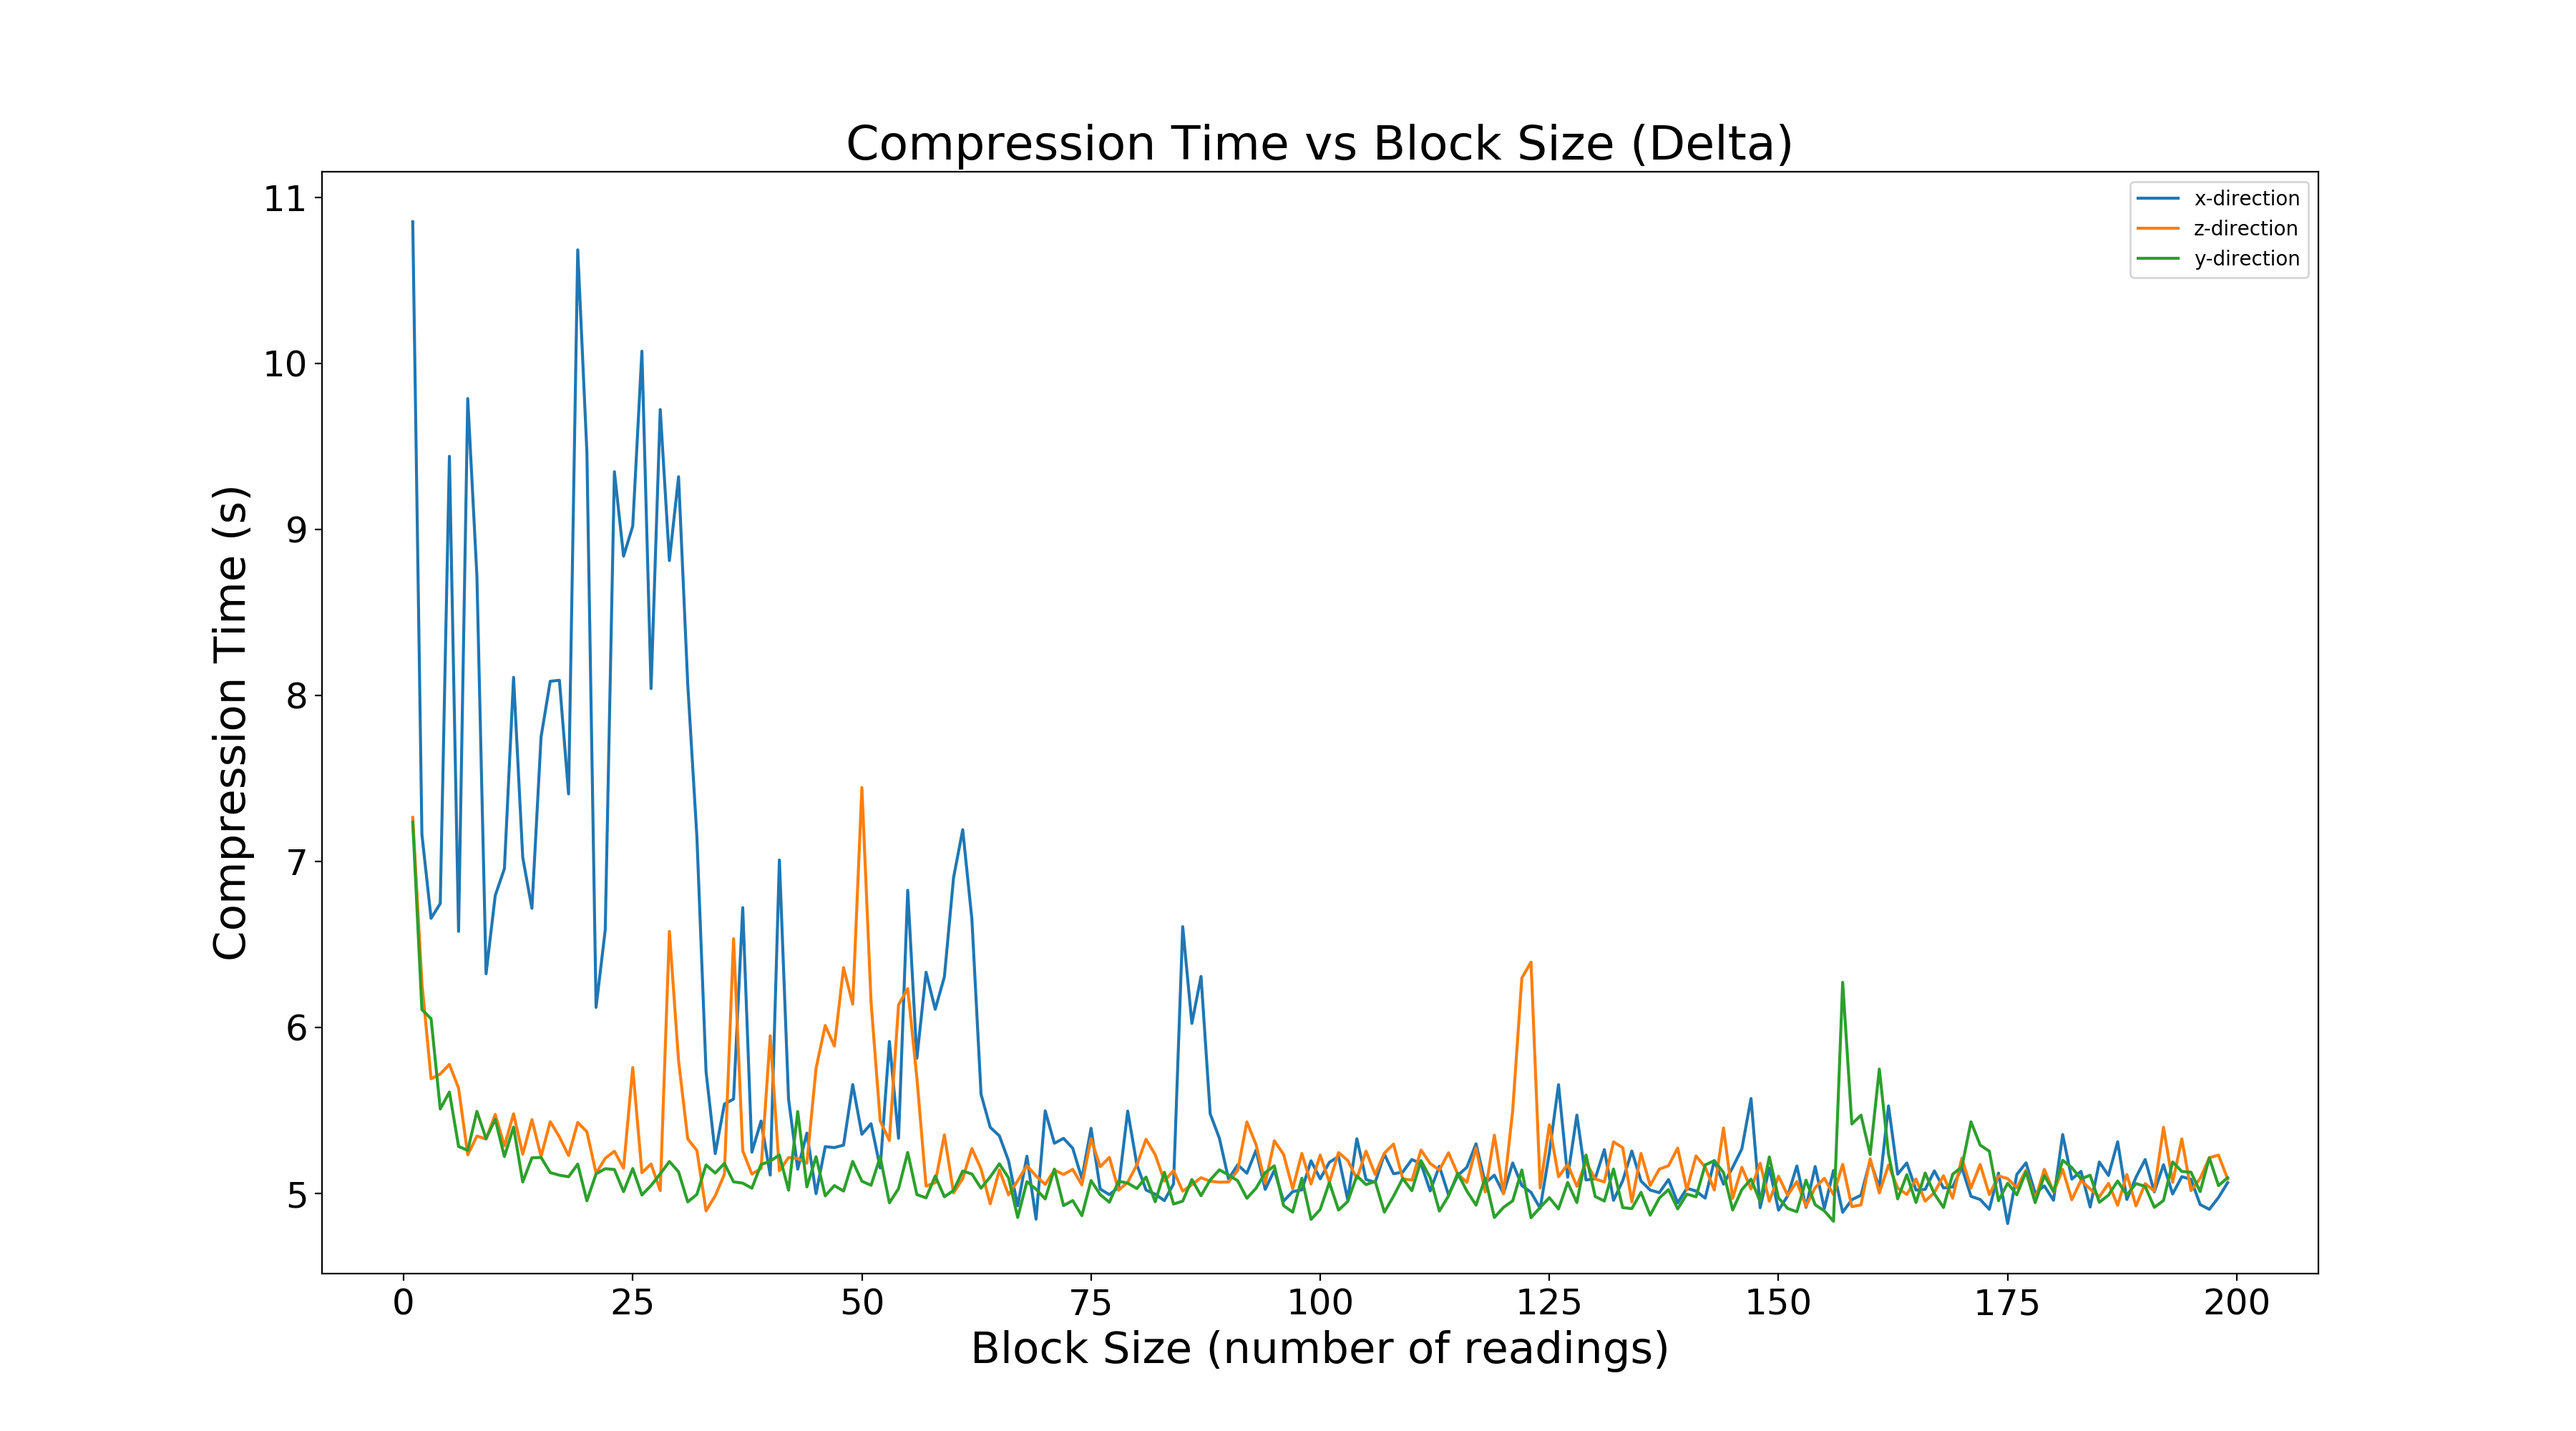
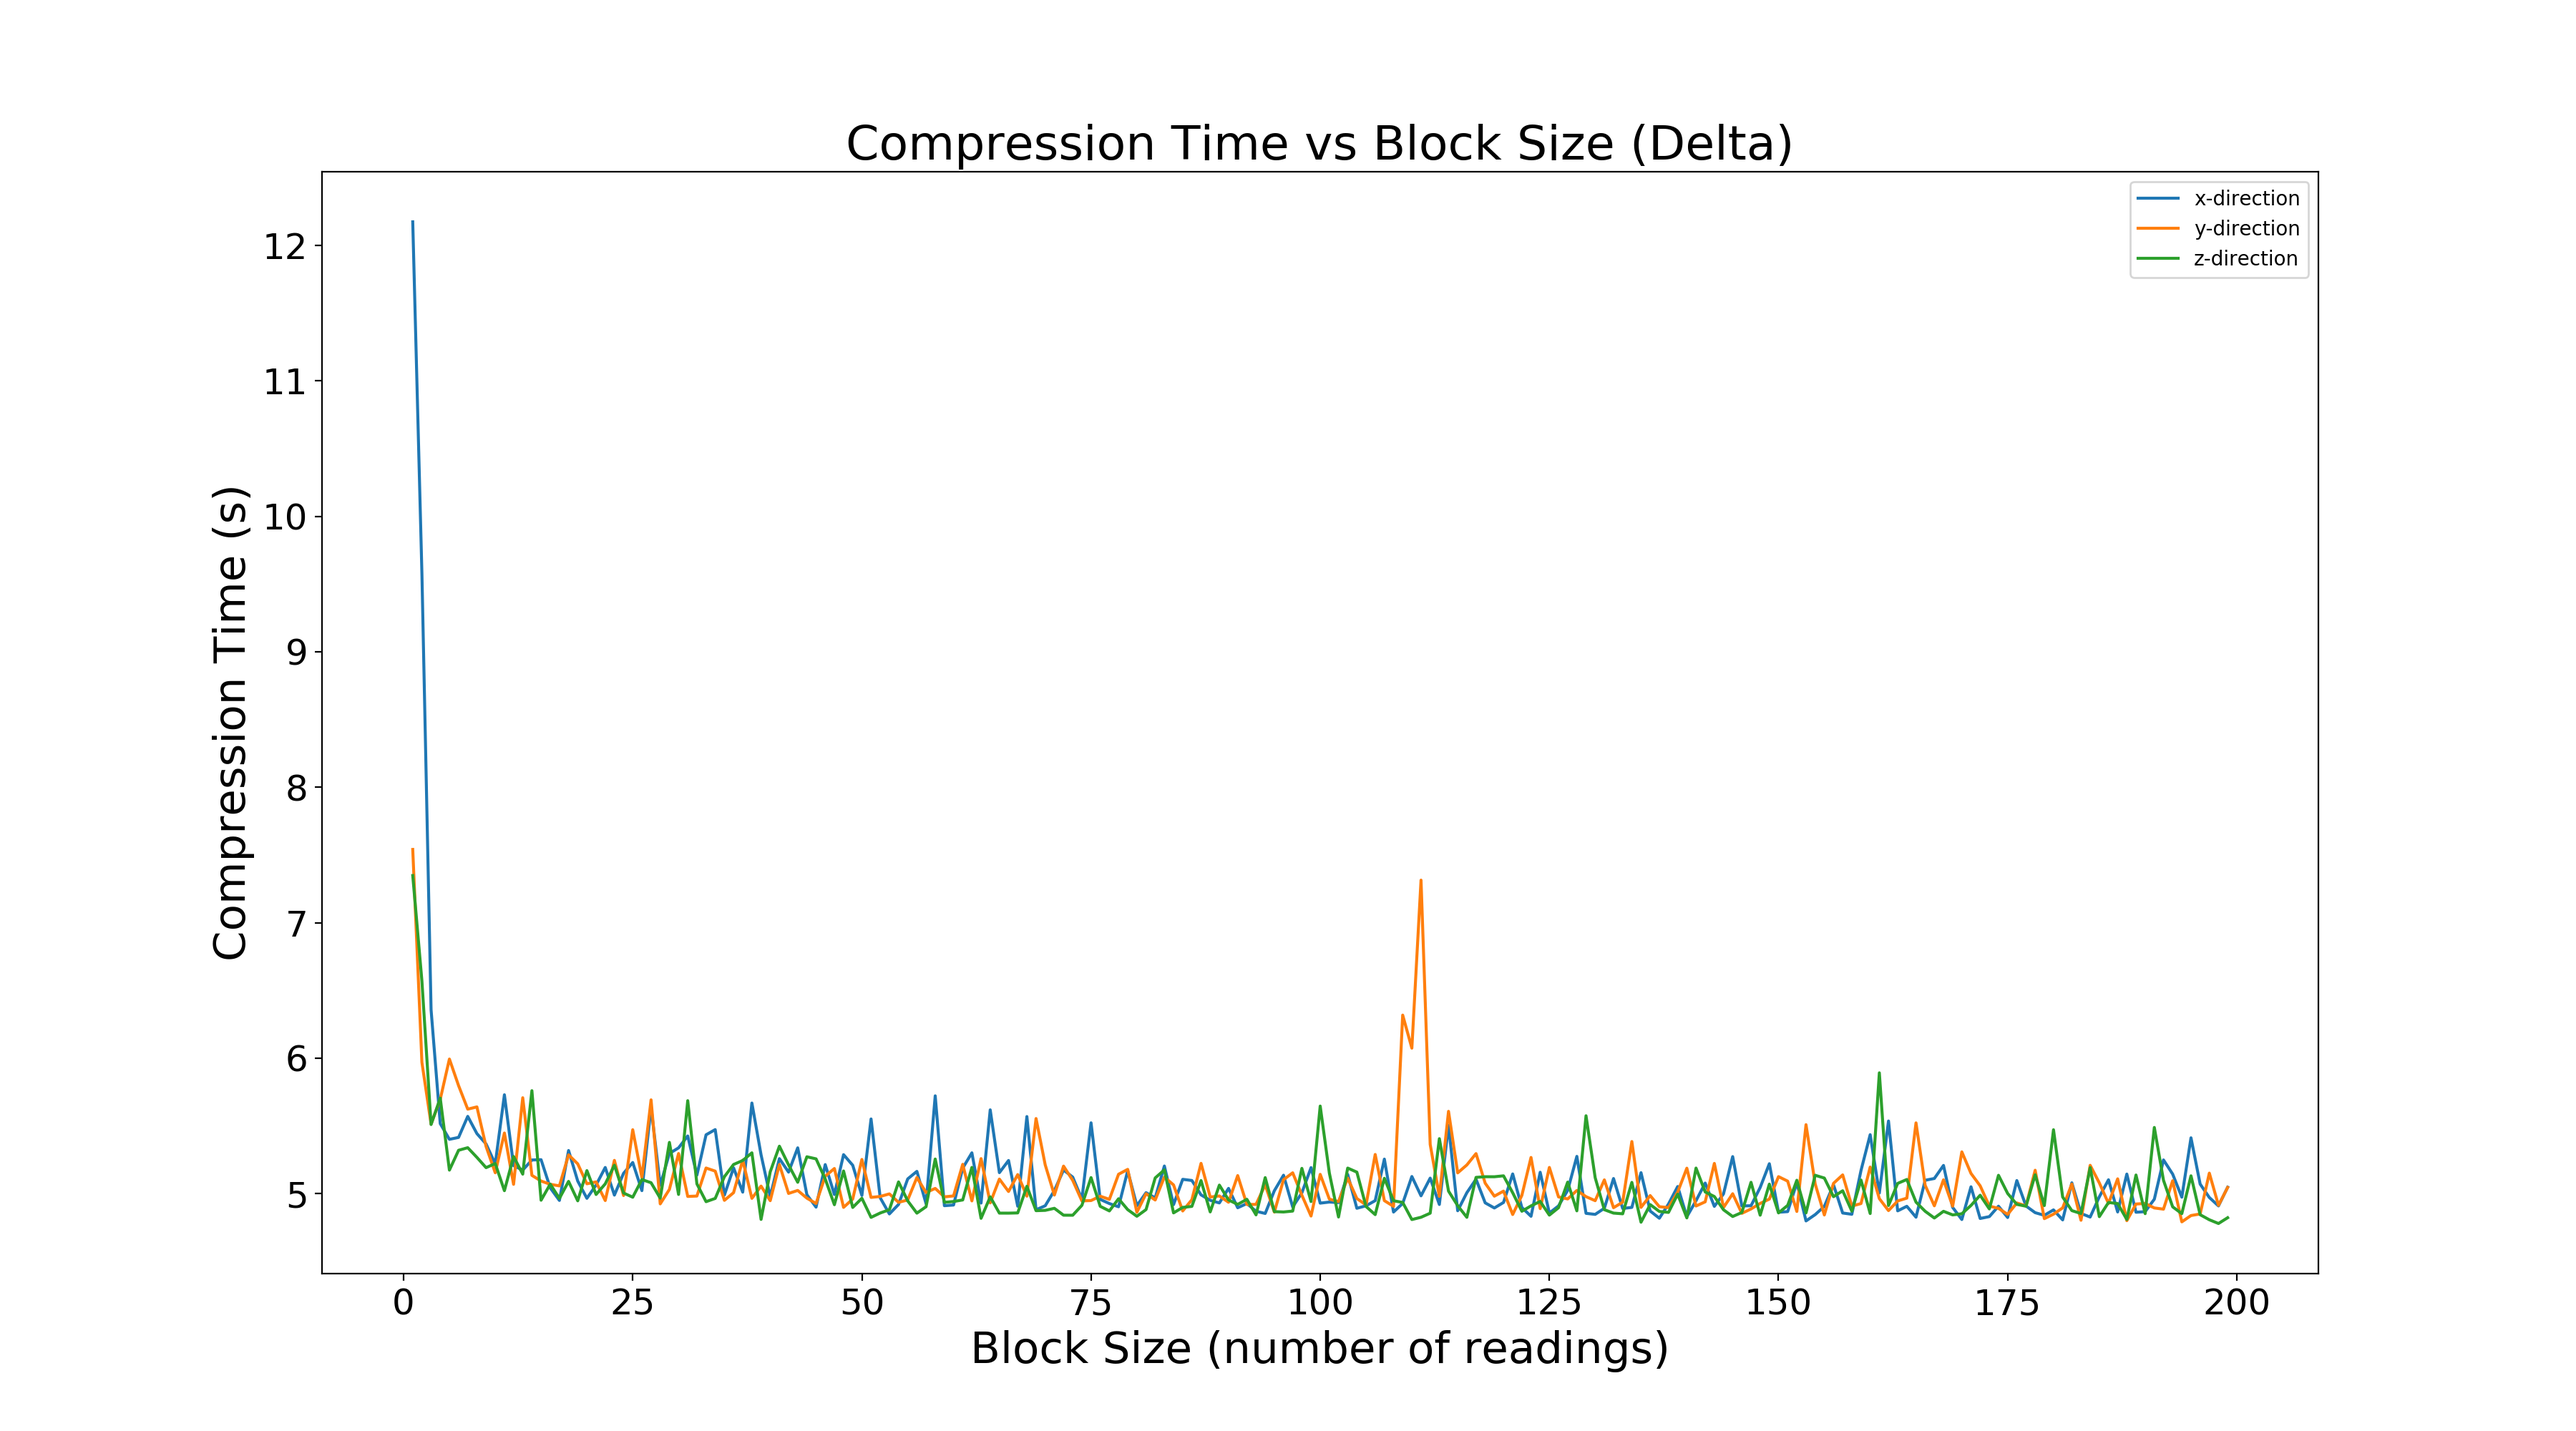
New graphs - y and z order fixed )was xzy, now xyz)

diff --git a/satellite/bscproject/read_data_v.py b/satellite/bscproject/read_data_v.py
@@ -145,47 +145,47 @@ fixed_data = fix_data(data)
 #Plotting compression ratios/times
 #"""
 #
-#figure = plt.gcf()  # get current figure
-#figure.set_size_inches(18, 10)
+figure = plt.gcf()  # get current figure
+figure.set_size_inches(18, 10)
+
+xdelta = vary_buffer_size("delta", fixed_data[0])
+ydelta = vary_buffer_size("delta", fixed_data[1])
+zdelta = vary_buffer_size("delta", fixed_data[2])
+
+plot(xdelta[0], xdelta[1], label = 'x-direction', ylabel = "Compression Ratio (%)")
+plot(ydelta[0], ydelta[1], label = 'y-direction', ylabel = "Compression Ratio (%)")
+plot(zdelta[0], zdelta[1], label = 'z-direction', ylabel = "Compression Ratio (%)")
+plt.title('Compression Ratio vs Block Size (Delta)', fontsize = 24)
+plt.legend()
+plt.savefig('compratio_blocksize_delta2.png', dpi = 200)
+
+plt.clf()
+plot(xdelta[0], xdelta[2], label = 'x-direction', ylabel = "Compression Time (s)")
+plot(ydelta[0], ydelta[2], label = 'y-direction', ylabel = "Compression Time (s)")
+plot(zdelta[0], zdelta[2], label = 'z-direction', ylabel = "Compression Time (s)")
+plt.legend()
+plt.title('Compression Time vs Block Size (Delta)', fontsize = 24)
+plt.savefig('comptime_blocksize_delta.png', dpi = 200)
+
+#plt.clf()
+#xgolomb = vary_buffer_size("golomb", fixed_data[0])
+#ygolomb = vary_buffer_size("golomb", fixed_data[1])
+#zgolomb = vary_buffer_size("golomb", fixed_data[2])
 #
-#xdelta = vary_buffer_size("delta", fixed_data[0])
-#ydelta = vary_buffer_size("delta", fixed_data[1])
-#zdelta = vary_buffer_size("delta", fixed_data[2])
-#
-#plot(xdelta[0], xdelta[1], label = 'x-direction', ylabel = "Compression Ratio (%)")
-#plot(zdelta[0], zdelta[1], label = 'z-direction', ylabel = "Compression Ratio (%)")
-#plot(ydelta[0], ydelta[1], label = 'y-direction', ylabel = "Compression Ratio (%)")
-#plt.title('Compression Ratio vs Block Size (Delta)', fontsize = 24)
+#plot(xgolomb[0], xgolomb[1], label = 'x-direction', ylabel = "Compression Ratio (%)")
+#plot(ygolomb[0], ygolomb[1], label = 'y-direction', ylabel = "Compression Ratio (%)")
+#plot(zgolomb[0], zgolomb[1], label = 'z-direction', ylabel = "Compression Ratio (%)")
 #plt.legend()
-#plt.savefig('compratio_blocksize_delta.png', dpi = 200)
+#plt.title('Compression Ratio vs Block Size (Golomb)', fontsize = 24)
+#plt.savefig('compratio_blocksize_golomb.png', dpi = 200)
 #
 #plt.clf()
-#plot(xdelta[0], xdelta[2], label = 'x-direction', ylabel = "Compression Time (s)")
-#plot(zdelta[0], zdelta[2], label = 'z-direction', ylabel = "Compression Time (s)")
-#plot(ydelta[0], ydelta[2], label = 'y-direction', ylabel = "Compression Time (s)")
+#plot(xgolomb[0], xgolomb[2], label = 'x-direction', ylabel = "Compression Time (s)")
+#plot(ygolomb[0], ygolomb[2], label = 'y-direction', ylabel = "Compression Time (s)")
+#plot(zgolomb[0], zgolomb[2], label = 'z-direction', ylabel = "Compression Time (s)")
 #plt.legend()
-#plt.title('Compression Time vs Block Size (Delta)', fontsize = 24)
-#plt.savefig('comptime_blocksize_delta.png', dpi = 200)
-
-plt.clf()
-xgolomb = vary_buffer_size("golomb", fixed_data[0])
-ygolomb = vary_buffer_size("golomb", fixed_data[1])
-zgolomb = vary_buffer_size("golomb", fixed_data[2])
-
-plot(xgolomb[0], xgolomb[1], label = 'x-direction', ylabel = "Compression Ratio (%)")
-plot(ygolomb[0], ygolomb[1], label = 'y-direction', ylabel = "Compression Ratio (%)")
-plot(zgolomb[0], zgolomb[1], label = 'z-direction', ylabel = "Compression Ratio (%)")
-plt.legend()
-plt.title('Compression Ratio vs Block Size (Golomb)', fontsize = 24)
-plt.savefig('compratio_blocksize_golomb.png', dpi = 200)
-
-plt.clf()
-plot(xgolomb[0], xgolomb[2], label = 'x-direction', ylabel = "Compression Time (s)")
-plot(ygolomb[0], ygolomb[2], label = 'y-direction', ylabel = "Compression Time (s)")
-plot(zgolomb[0], zgolomb[2], label = 'z-direction', ylabel = "Compression Time (s)")
-plt.legend()
-plt.title('Compression Time vs Block Size (Golomb)', fontsize = 24)
-plt.savefig('comptime_blocksize_golomb.png', dpi = 200)
+#plt.title('Compression Time vs Block Size (Golomb)', fontsize = 24)
+#plt.savefig('comptime_blocksize_golomb.png', dpi = 200)
 
 #%%
 """
